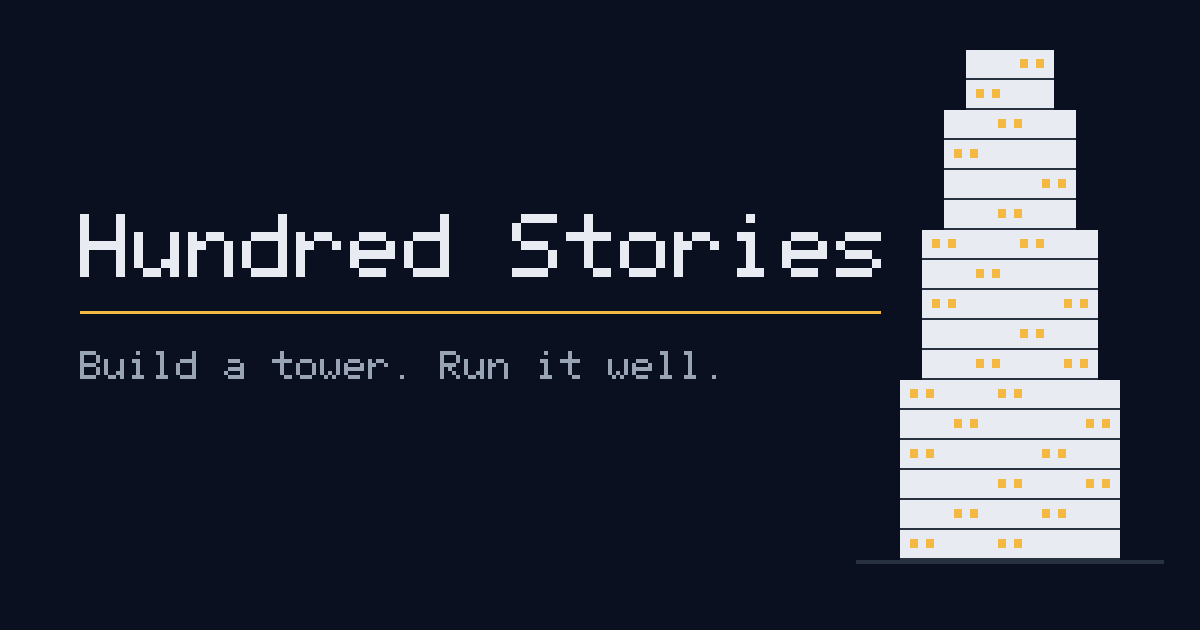
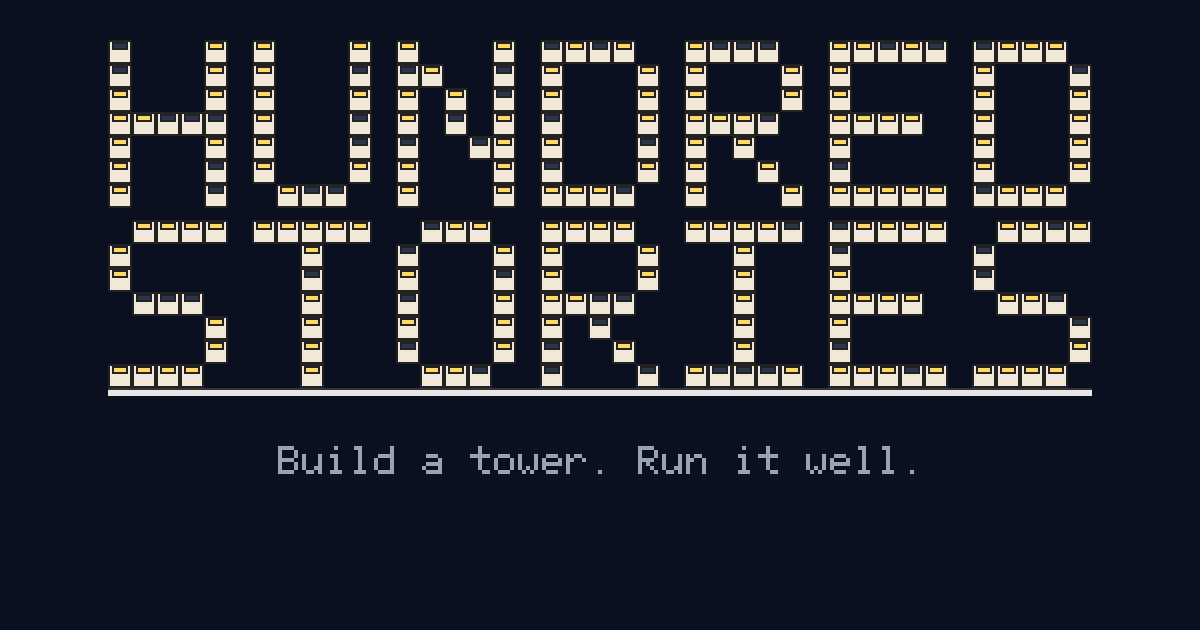
header: the site wordmark is the game's own room-cell art
Both pages now link to / with the picture/svg wordmark instead of the
plain text wordmark, sized 24px (28px from 720px up). The link preview
image is regenerated from the same drawing code: scripts/make-wordmark.mjs
now exports drawWordmarkOnBuffer/buildScene so scripts/make-og.mjs can
render the real wordmark onto public/og.png instead of a separate hand-set
title, with the tagline beneath it.

diff --git a/how-to-play/index.html b/how-to-play/index.html
@@ -39,7 +39,7 @@
   <body>
     <header class="site-head">
       <div class="wrap">
-        <a class="wordmark" href="/">Hundred Stories</a>
+        <a class="site-wordmark" href="/" aria-label="Hundred Stories home"><picture><source srcset="/wordmark-light.svg" media="(prefers-color-scheme: light)"><img src="/wordmark-dark.svg" alt="Hundred Stories" width="270" height="118"></picture></a>
         <nav class="site-nav" aria-label="Main">
           <a href="/how-to-play/">How to play</a>
           <a href="/play/">Play</a>
@@ -166,22 +166,20 @@
 
           <h2>Controls</h2>
           <ul>
-            <li>Drag the view to pan it, or use <span class="key">W</span>,
-              <span class="key">A</span>, <span class="key">S</span>, <span class="key">D</span> and
-              the arrow keys.</li>
-            <li>Scroll the mouse wheel to zoom toward the pointer.</li>
-            <li><span class="key">Home</span> returns to the opening view of the tower.</li>
-            <li>Click a room, an elevator or a person to inspect it.</li>
-            <li><span class="key">Space</span> pauses and resumes.</li>
-            <li>
-              <span class="key">1</span>, <span class="key">2</span> and
-              <span class="key">3</span> set the speed to one, two and four times.
-            </li>
-            <li><span class="key">Escape</span> puts the current build tool away.</li>
-            <li>
-              While a build tool is active the left button places rooms, so pan with the middle
-              button or hold <span class="key">Space</span> and drag.
-            </li>
+            <li>Move around: drag anywhere with the mouse, even with a build tool selected. Scroll
+              the wheel to move up and down, hold shift to move sideways. On a trackpad, two-finger
+              scroll moves the view.</li>
+            <li>Zoom: hold ctrl and scroll, or pinch on a trackpad. Plus and minus keys also
+              zoom.</li>
+            <li>Keys: <span class="key">W</span> <span class="key">A</span>
+              <span class="key">S</span> <span class="key">D</span> or the arrow keys move the
+              view.</li>
+            <li>Place a room: pick it from the palette, then click where it goes. A click that does
+              not move places; a press that moves pans.</li>
+            <li>Speed: <span class="key">1</span>, <span class="key">2</span>,
+              <span class="key">3</span> set the clock speed, <span class="key">Space</span>
+              pauses.</li>
+            <li><span class="key">Escape</span> drops the current tool.</li>
           </ul>
           <p>
             If you have asked your system for reduced motion, the game honors it: no inertia on the

diff --git a/index.html b/index.html
@@ -42,7 +42,7 @@
   <body>
     <header class="site-head">
       <div class="wrap">
-        <a class="wordmark" href="/">Hundred Stories</a>
+        <a class="site-wordmark" href="/" aria-label="Hundred Stories home"><picture><source srcset="/wordmark-light.svg" media="(prefers-color-scheme: light)"><img src="/wordmark-dark.svg" alt="Hundred Stories" width="270" height="118"></picture></a>
         <nav class="site-nav" aria-label="Main">
           <a href="/how-to-play/">How to play</a>
           <a href="/play/">Play</a>

diff --git a/src/site/site.css b/src/site/site.css
@@ -134,12 +134,15 @@ p {
   padding-bottom: 8px;
 }
 
-.wordmark {
-  font-family: var(--font-readout);
-  font-size: var(--size-20);
-  letter-spacing: 0.04em;
-  text-decoration: none;
+.site-wordmark {
+  display: block;
   margin-right: auto;
+}
+
+.site-wordmark img {
+  height: 24px;
+  width: auto;
+  display: block;
 }
 
 .site-nav {
@@ -329,6 +332,10 @@ main section + section {
 @media (min-width: 720px) {
   h1 {
     font-size: 48px;
+  }
+
+  .site-wordmark img {
+    height: 28px;
   }
 
   .cards {
